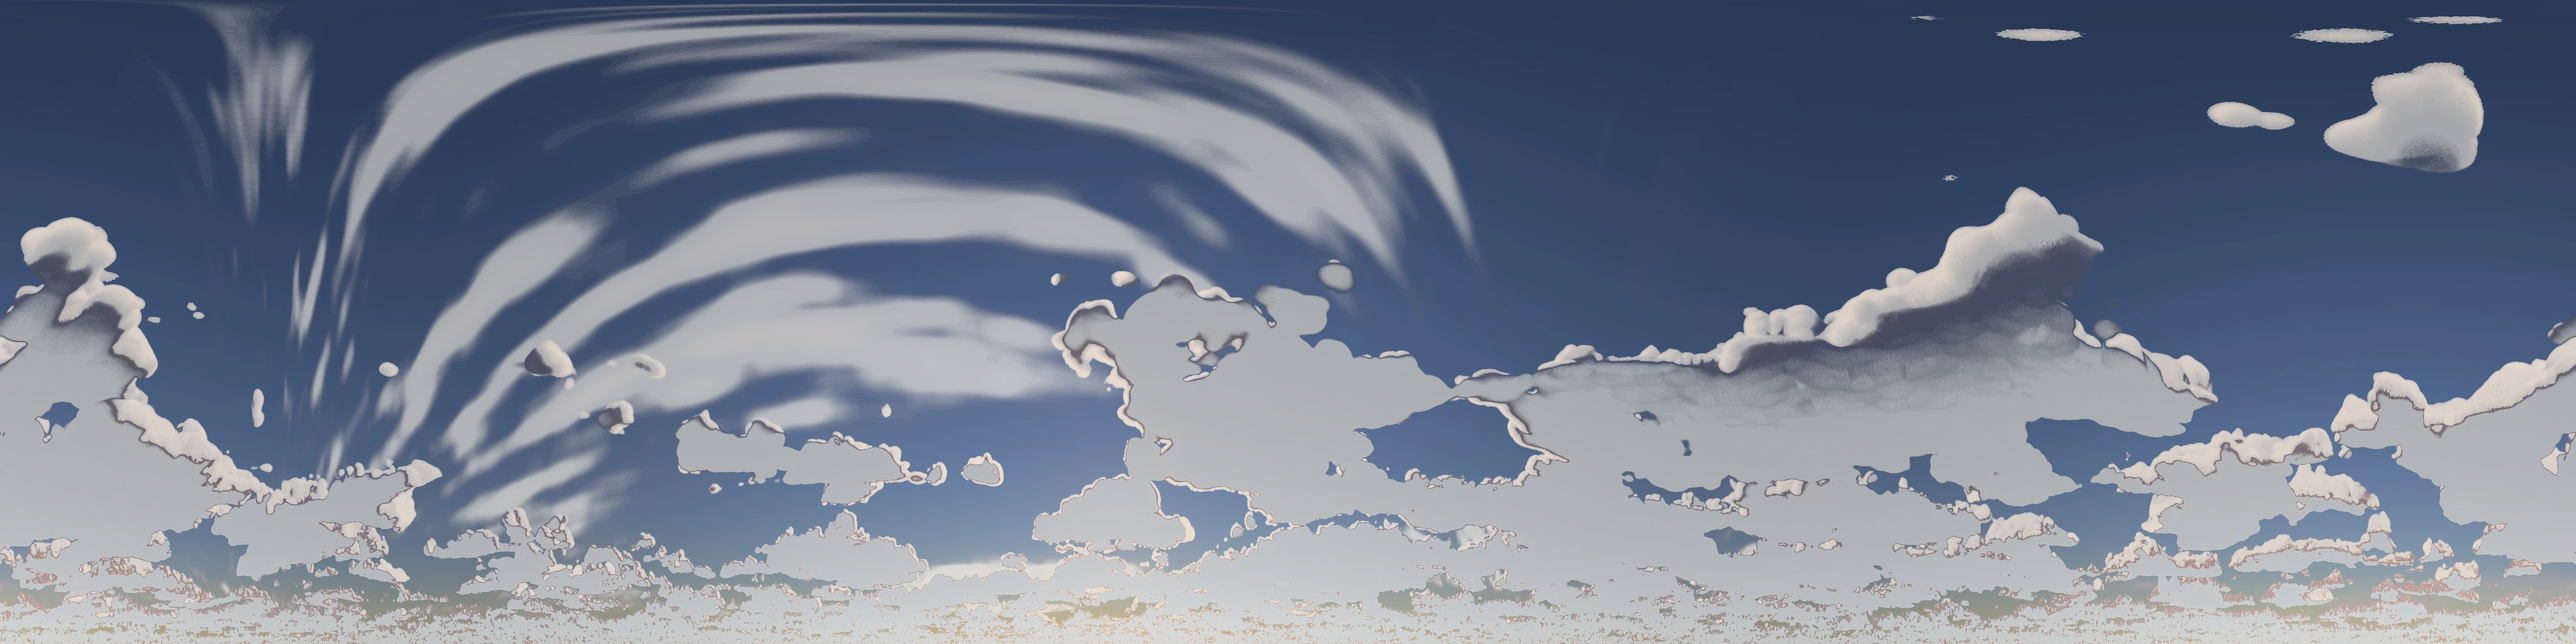
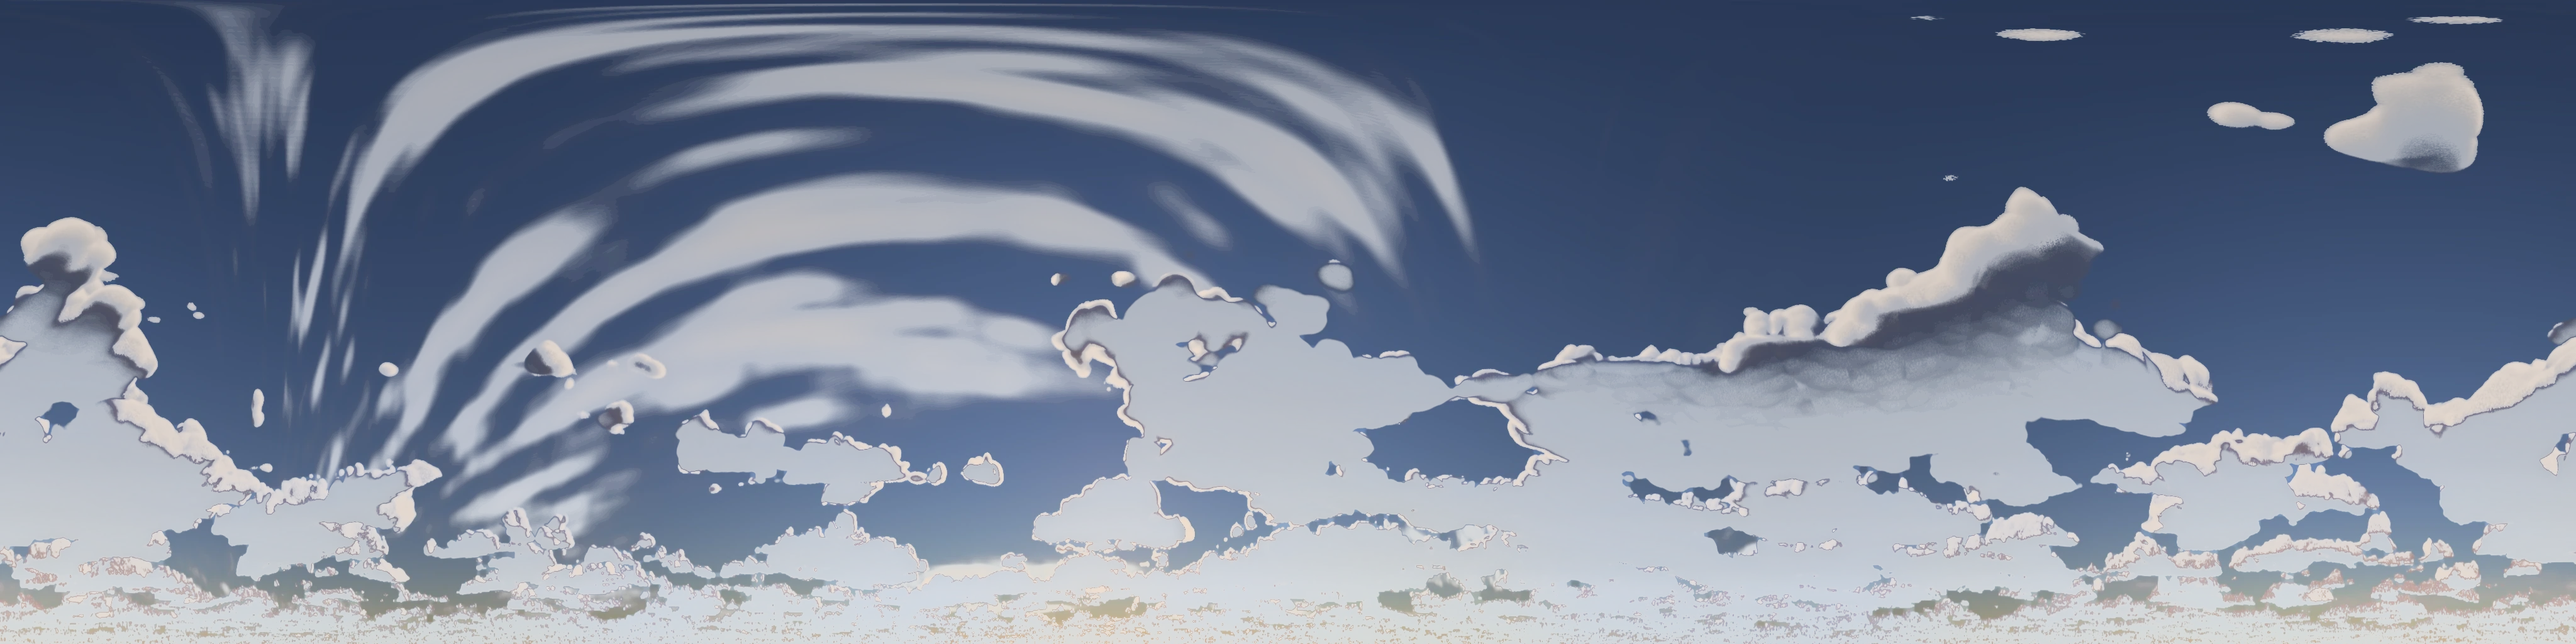
Phone skies: clouds read as bright cumulus with blue-grey shade, not grey-brown smears
The Unreal panoramas' heaps sat at the clear sky's own luminance in a neutral
grey that Mobile's warm grade turns tan; a backlit core filled the top of the
putt frame as a dark grey-brown smear. tools/sky-webp.py gains a cumulus step
(and --from-webp, since the HDRs live on the Windows box): each cloud's
luminance relative to the clear sky at its elevation goes through
sky * 1.6 * (Y / sky)^.6 over its neighbourhood, so rims keep their lead, its
shade takes 30% of the sky's blue, thin cirrus keeps its own mask. All four
courses regraded once from the shipped WebPs (EXIF-tagged against a second
pass). Clouds darker than the sky behind them, 5-30 deg up: 35-71% -> 0-4%.

diff --git a/tools/sky-webp.py b/tools/sky-webp.py
@@ -7,6 +7,8 @@
 # produce. Alpha is the cloud mask (from the <id>-clear.hdr pass) the dome hides its sun disc behind.
 #   python tools/sky-webp.py [pine meadow lake bluff]   -> assets/skies/<id>.webp (4096x1024), <id>-mobile.webp (2048x512),
 #                                                          previews in art/qa/sky-pano/ (game tone map, for eyeballing)
+#   python tools/sky-webp.py --from-webp [ids]          -> the same, re-graded from the shipped 4096 WebPs (the HDRs live on the
+#                                                          Windows box): only the cumulus step and the shoulder run, once (EXIF tag)
 import io, math, os, sys
 import numpy as np
 from PIL import Image
@@ -24,6 +26,18 @@ SIZES = {"": (4096, 600_000), "-mobile": (2048, 200_000)}   # suffix: width, byt
 # sees only a small window of sky beside the disc, which the render filled with one flat backlit heap; 8 deg puts a
 # heap's silver edge against the glowing sky there at the start of a round.
 YAW = {"pine": 8.}
+# The cumulus step (gauntlet r4): the render's heaps read as dark grey-brown blobs on phones. Their bodies sat at the clear sky's
+# own luminance (cloud/sky .91-.99 from 5 to 30 deg up) in a neutral grey that both tiers' warm grades (Mobile's gain
+# 1.13/1.08/1, the warm highlight split) turn tan, and a backlit heap's flat grey core filled the top of the phone's putt frame
+# as a muddy smear. Each cloud now takes its luminance relative to the clear sky behind it through Y' = sky * A * (Y / sky)^G
+# (the shade lifted a little over the sky's level, the bright faces kept, contrast eased by 1 - G), measured over the cloud's
+# neighbourhood (BASE px), so a silver rim keeps its lead over the core it frames (lifted texel by texel the core caught up with
+# it and the rim read as a dark pink outline), and its shade takes COOL of the sky's own blue, SAT more saturated (sky light
+# fills a cloud's shade, so it reads blue-grey, not brown, through the warm grade); the rims keep their gold. Applied as the
+# change the cloud's core takes, times the cloud mask, so a soft edge composites between the new body and the sky.
+CUMULUS = dict(A=1.6, G=.6, COOL=.3, SAT=1.1, BASE=10.)
+TAG = "chains sky: cumulus 1"   # EXIF ImageDescription on graded files: --from-webp refuses to grade a file twice
+LUM = np.array([.2126, .7152, .0722], np.float32)
 
 
 def read_hdr(path):
@@ -92,48 +106,139 @@ def srgb(c):
 
 
 def webp(rgb8, budget):
-    """Highest quality (<= 92) that fits the byte budget."""
-    im, best = Image.fromarray(rgb8, "RGBA"), None
+    """Highest quality (<= 92) that fits the byte budget, tagged as graded (TAG)."""
+    im, best, exif = Image.fromarray(rgb8, "RGBA"), None, Image.Exif()
+    exif[0x010e] = TAG
     for q in range(92, 30, -4):
-        b = io.BytesIO(); im.save(b, "WEBP", quality=q, method=6, alpha_quality=60)
+        b = io.BytesIO(); im.save(b, "WEBP", quality=q, method=6, alpha_quality=60, exif=exif.tobytes())
         best = (b.getvalue(), q)
         if b.tell() <= budget:
             break
     return best
 
 
-def main(ids):
+def box(a, r, axis):
+    """Box filter of radius r px: columns wrap (azimuth), rows clamp."""
+    n = a.shape[axis]
+    p = np.concatenate([a[:, -r - 1:], a, a[:, :r]], 1) if axis == 1 else np.concatenate([np.repeat(a[:1], r + 1, 0), a, np.repeat(a[-1:], r, 0)], 0)
+    c = np.cumsum(p, axis, dtype=np.float64)
+    return ((np.take(c, np.arange(2 * r + 1, 2 * r + 1 + n), axis) - np.take(c, np.arange(n), axis)) / (2 * r + 1)).astype(np.float32)
+
+
+def blur(a, s):   # three box passes ~ a Gaussian of sigma s px
+    r = max(1, int(round((math.sqrt(4 * s * s + 1) - 1) / 2)))
+    for _ in range(3):
+        a = box(box(a, r, 1), r, 0)
+    return a
+
+
+def pushpull(c, w):
+    """c (HxWx3) where the weight w is 1, filled elsewhere from its weighted neighbourhood, coarse to fine."""
+    levels = [(c * w[..., None], w)]
+    while min(levels[-1][1].shape) > 4:
+        cs, ws = levels[-1]; h, ww = ws.shape[0] // 2 * 2, ws.shape[1] // 2 * 2
+        levels.append((cs[:h, :ww].reshape(h // 2, 2, ww // 2, 2, 3).sum((1, 3)), ws[:h, :ww].reshape(h // 2, 2, ww // 2, 2).sum((1, 3))))
+    est = levels[-1][0] / np.maximum(levels[-1][1], 1e-6)[..., None]
+    for cs, ws in reversed(levels[:-1]):
+        h, ww = ws.shape
+        up = np.dstack([np.asarray(Image.fromarray(est[..., k].astype(np.float32)).resize((ww, h), Image.BILINEAR)) for k in range(3)])
+        k = np.clip(ws, 0, 1)[..., None]
+        est = cs / np.maximum(ws, 1e-6)[..., None] * k + up * (1 - k)
+    return est
+
+
+def extreme(a, r, f):
+    """A max (f = np.maximum) or min filter over a (2r + 1)^2 box: columns wrap, rows clamp."""
+    for _ in range(r):
+        p = np.pad(a, ((1, 1), (0, 0)), mode="edge")
+        a = f(f(p[:-2], p[2:]), a); a = f(f(np.roll(a, 1, 1), np.roll(a, -1, 1)), a)
+    return a
+
+
+def cumulus(lin, alpha):
+    """The cumulus step (CUMULUS above) on the graded linear sky and its alpha."""
+    y2 = np.clip(2 * (1 - alpha), 0, 1)
+    t = .5 - np.sin(np.arcsin(np.clip(1 - 2 * y2, -1, 1)) / 3)   # the cloud mask: alpha = 1 - .5 * smoothstep(t), inverted
+    # The mask measures how far a texel departs from the clear sky, so it drops to 0 along the line inside a heap where its gold
+    # rim fades through the sky's brightness into the grey core: a grey closing (4 px) fills those lines without making a faint
+    # cirrus streak solid (a hard one turned every streak into an opaque cut-out).
+    t = np.maximum(t, blur(extreme(extreme(t, 4, np.maximum), 4, np.minimum), 1.5)).astype(np.float32)
+    sky, lum, v = blur(t, 4) < .01, lin @ LUM, np.arange(lin.shape[0])   # clear texels, a few px off any cloud
+    # The clear sky's luminance by elevation, the median of each band of 25 rows (filled outward from the clear texels, one dark
+    # gap in a zenith deck spread over the whole deck and printed a dark stripe on it); its colour, for the shade's blue, from
+    # the clear texels round each cloud.
+    band = lambda i: slice(max(0, i - 12), i + 13)
+    med = np.array([np.median(lum[band(i)][sky[band(i)]]) if sky[band(i)].sum() > 200 else np.nan for i in v])
+    med = np.interp(v, v[~np.isnan(med)], med[~np.isnan(med)])
+    clear = pushpull(lin, sky.astype(np.float32)); clear = np.dstack([blur(clear[..., k], 48) for k in range(3)])
+    # Each soft edge takes the colour just inside its cloud, weighted by how much cloud a texel is: a thin cirrus streak that
+    # never reaches a solid core keeps its own colour instead of a heap's from a distance.
+    core = pushpull(lin, np.clip((t - .2) / .7, 0, 1).astype(np.float32))
+    y = np.maximum(core @ LUM, 1e-5); r = y / np.maximum(med, 1e-4)[:, None]
+    lift = CUMULUS["A"] * np.exp((CUMULUS["G"] - 1) * blur(np.log(r), CUMULUS["BASE"]))   # Y'/Y over the neighbourhood
+    lit = np.clip((r - .9) / 1.7, 0, 1); lit = (lit * lit * (3 - 2 * lit))[..., None]   # 0 in the shade, 1 on the bright faces and rims
+    hue = core / y[..., None]
+    hue = hue + (clear / np.maximum(clear @ LUM, 1e-4)[..., None] - hue) * CUMULUS["COOL"] * (1 - lit)
+    hy = (hue @ LUM)[..., None]; hue = hy + (hue - hy) * (1 + (CUMULUS["SAT"] - 1) * (1 - lit)); hue /= np.maximum(hue @ LUM, 1e-5)[..., None]
+    new = np.maximum(hue * (y * lift)[..., None], 0)
+    w = t * t * (3 - 2 * t)   # the change by how much cloud: a heap's body takes all of it, its soft edge composites into the sky
+    return np.maximum(lin + (new - core) * w[..., None], 0)
+
+
+def shoulder(lin, inverse=False):
+    """A soft shoulder over .9: silver linings by the disc stay the brightest thing in the sky without the dome's own
+    aureole on top blowing them out to a flat cream blob (blind critic, Pine's first tee). inverse: undo it (--from-webp)."""
+    y = (lin @ LUM)[..., None]
+    o = np.maximum(y - .9, 0)
+    o = o / np.maximum(1 - o / .5, .02) if inverse else o / (1 + o / .5)
+    return lin * (np.minimum(y, .9) + o) / np.maximum(y, 1e-6)
+
+
+def grade(cid):
+    """The Unreal render (SRC) to the graded linear sky and its cloud alpha."""
+    src = read_hdr(os.path.join(SRC, cid + ".hdr"))
+    lin = resample(src, 4096, YAW.get(cid, 0.))
+    lum = lin @ LUM
+    v = 1 - (np.arange(lin.shape[0]) + .5) / lin.shape[0]
+    band = (v > math.sin(math.radians(15))) & (v < math.sin(math.radians(40)))
+    gain = TARGET / float(np.median(lum[band]))
+    lin *= gain
+    p999 = float(np.percentile(lin, 99.9))
+    print(f"{cid}: gain {gain:.4g}, 99.9th pct {p999:.3f} (headroom {HEADROOM}), clipped {float((lin > HEADROOM).mean()) * 100:.3f}%")
+    # Alpha: 1 in clear sky, .5 under cloud (the dome hides its disc there), from how far the render departs from the
+    # same sky rendered clear. Never below .5, so a browser that round-trips the image through premultiplied alpha
+    # costs the clouds at most one bit and leaves the clear sky exact.
+    clear_rgb = resample(read_hdr(os.path.join(SRC, cid + "-clear.hdr")), 4096, YAW.get(cid, 0.)) * gain
+    clear = clear_rgb @ LUM
+    t = np.clip((np.abs(lum * gain - clear) / np.maximum(clear, 1e-4) - .04) / .26, 0, 1)
+    alpha = 1 - .5 * t * t * (3 - 2 * t)
+    # Heaps toward the sun came out as dark grey blobs with gold rims (the engine's multiple scattering is thin): a
+    # cloud darker than the sky behind it gets back LIFT of the luminance difference, as neutral grey (the sky's own
+    # blue made the cores look see-through), so backlit cores read silver-grey.
+    lin += (t * LIFT * np.maximum(clear - lum * gain, 0))[..., None]
+    lin *= TINT + (1 - TINT) * (2 - 2 * alpha)[..., None]
+    y = (lin @ LUM)[..., None]
+    lin = np.maximum(y + (lin - y) * (SAT + (CLOUD_SAT - SAT) * t)[..., None], 0)   # the sky bluer, the clouds' low-sun gold rims calmer
+    print(f"  cloud cover above 7 deg: {float((t[v > .12] > .5).mean()) * 100:.0f}%")
+    return lin, alpha
+
+
+def from_webp(cid):
+    """The shipped 4096 WebP back to the graded linear sky (shoulder undone) and its alpha."""
+    im = Image.open(os.path.join(ROOT, "assets", "skies", cid + ".webp"))
+    if im.getexif().get(0x010e) == TAG:
+        sys.exit(f"{cid}.webp already carries the cumulus step ({TAG}): re-render, or check out the file from before it")
+    a = np.asarray(im.convert("RGBA")).astype(np.float32) / 255
+    s = a[..., :3]
+    lin = np.where(s <= .04045, s / 12.92, ((s + .055) / 1.055) ** 2.4).astype(np.float32) * HEADROOM
+    return shoulder(lin, inverse=True), a[..., 3]
+
+
+def main(ids, from_shipped=False):
     prev = os.path.join(ROOT, "art", "qa", "sky-pano"); os.makedirs(prev, exist_ok=True)
     for cid in ids:
-        src = read_hdr(os.path.join(SRC, cid + ".hdr"))
-        lin = resample(src, 4096, YAW.get(cid, 0.))
-        lum = lin @ np.array([.2126, .7152, .0722], np.float32)
-        v = 1 - (np.arange(lin.shape[0]) + .5) / lin.shape[0]
-        band = (v > math.sin(math.radians(15))) & (v < math.sin(math.radians(40)))
-        gain = TARGET / float(np.median(lum[band]))
-        lin *= gain
-        p999 = float(np.percentile(lin, 99.9))
-        print(f"{cid}: gain {gain:.4g}, 99.9th pct {p999:.3f} (headroom {HEADROOM}), clipped {float((lin > HEADROOM).mean()) * 100:.3f}%")
-        # Alpha: 1 in clear sky, .5 under cloud (the dome hides its disc there), from how far the render departs from the
-        # same sky rendered clear. Never below .5, so a browser that round-trips the image through premultiplied alpha
-        # costs the clouds at most one bit and leaves the clear sky exact.
-        clear_rgb = resample(read_hdr(os.path.join(SRC, cid + "-clear.hdr")), 4096, YAW.get(cid, 0.)) * gain
-        clear = clear_rgb @ np.array([.2126, .7152, .0722], np.float32)
-        t = np.clip((np.abs(lum * gain - clear) / np.maximum(clear, 1e-4) - .04) / .26, 0, 1)
-        alpha = 1 - .5 * t * t * (3 - 2 * t)
-        # Heaps toward the sun came out as dark grey blobs with gold rims (the engine's multiple scattering is thin): a
-        # cloud darker than the sky behind it gets back LIFT of the luminance difference, as neutral grey (the sky's own
-        # blue made the cores look see-through), so backlit cores read silver-grey.
-        lin += (t * LIFT * np.maximum(clear - lum * gain, 0))[..., None]
-        lin *= TINT + (1 - TINT) * (2 - 2 * alpha)[..., None]
-        y = (lin @ np.array([.2126, .7152, .0722], np.float32))[..., None]
-        lin = np.maximum(y + (lin - y) * (SAT + (CLOUD_SAT - SAT) * t)[..., None], 0)   # the sky bluer, the clouds' low-sun gold rims calmer
-        # A soft shoulder over .9: silver linings by the disc stay the brightest thing in the sky without the dome's own
-        # aureole on top blowing them out to a flat cream blob (blind critic, Pine's first tee).
-        y = (lin @ np.array([.2126, .7152, .0722], np.float32))[..., None]
-        over = np.maximum(y - .9, 0)
-        lin *= (np.minimum(y, .9) + over / (1 + over / .5)) / np.maximum(y, 1e-6)
-        print(f"  cloud cover above 7 deg: {float((t[v > .12] > .5).mean()) * 100:.0f}%")
+        lin, alpha = from_webp(cid) if from_shipped else grade(cid)
+        lin = shoulder(cumulus(lin, alpha))
         enc = np.clip(np.dstack([srgb(np.clip(lin / HEADROOM, 0, 1)), alpha]) * 255 + .5, 0, 255).astype(np.uint8)
         for suf, (W, budget) in SIZES.items():
             img = enc if W == 4096 else np.asarray(Image.fromarray(enc, "RGBA").resize((W, W // 4), Image.LANCZOS))
@@ -145,4 +250,5 @@ def main(ids):
 
 
 if __name__ == "__main__":
-    main(sys.argv[1:] or ["pine", "meadow", "lake", "bluff"])
+    ids = [a for a in sys.argv[1:] if not a.startswith("--")]
+    main(ids or ["pine", "meadow", "lake", "bluff"], "--from-webp" in sys.argv)
